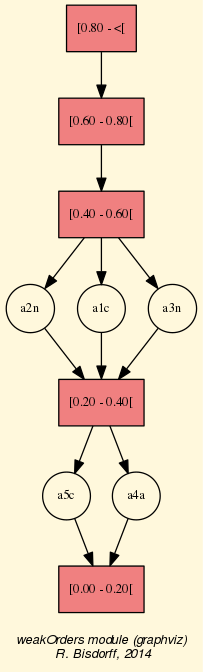
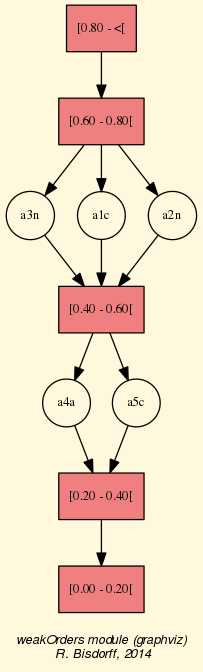
added performaceQuantiles module
git-svn-id: http://leopold-loewenheim.uni.lu/svn/repos/Digraph3@2351 1edaa99d-39e4-4cdb-8da2-0a4aeb6909dc

diff --git a/docSphinx/html/_modules/sortingDigraphs.html b/docSphinx/html/_modules/sortingDigraphs.html
@@ -51,7 +51,7 @@
 <span></span><span class="ch">#!/usr/bin/env python3</span>
 <span class="c1"># -*- coding: utf-8 -*-</span>
 <span class="c1"># Python implementation of digraphs</span>
-<span class="c1"># Current revision $Revision: 2349 $</span>
+<span class="c1"># Current revision $Revision: 2348 $</span>
 <span class="c1"># Copyright (C) 2006-2008  Raymond Bisdorff</span>
 <span class="c1">#</span>
 <span class="c1">#    This program is free software; you can redistribute it and/or modify</span>
@@ -5564,7 +5564,7 @@
 
 <span class="c1"># ------------  class methods ------------------</span>
 
-<div class="viewcode-block" id="NormedQuantilesRatingDigraph.computeRatingRelation"><a class="viewcode-back" href="../techDoc.html#sortingDigraphs.NormedQuantilesRatingDigraph.computeRatingRelation">[docs]</a>    <span class="k">def</span> <span class="nf">computeRatingRelation</span><span class="p">(</span><span class="bp">self</span><span class="p">,</span><span class="n">Debug</span><span class="o">=</span><span class="kc">False</span><span class="p">,</span><span class="n">StoreRating</span><span class="o">=</span><span class="kc">True</span><span class="p">):</span>
+<div class="viewcode-block" id="NormedQuantilesRatingDigraph.computeRatingRelation"><a class="viewcode-back" href="../techDoc.html#sortingDigraphs.NormedQuantilesRatingDigraph.computeRatingRelation">[docs]</a>    <span class="k">def</span> <span class="nf">computeRatingRelation</span><span class="p">(</span><span class="bp">self</span><span class="p">,</span><span class="n">Debug</span><span class="o">=</span><span class="kc">True</span><span class="p">,</span><span class="n">StoreRating</span><span class="o">=</span><span class="kc">True</span><span class="p">):</span>
         <span class="sd">&quot;&quot;&quot;</span>
 <span class="sd">        constructs a bipolar rating relation using a preRanking list of lists.</span>
 <span class="sd">        &quot;&quot;&quot;</span>
@@ -5579,10 +5579,16 @@
 
         <span class="n">profiles</span> <span class="o">=</span> <span class="bp">self</span><span class="o">.</span><span class="n">profiles</span>
         <span class="n">preRanking</span> <span class="o">=</span> <span class="p">[]</span>
-        <span class="k">for</span> <span class="n">c</span> <span class="ow">in</span> <span class="nb">reversed</span><span class="p">(</span><span class="n">profiles</span><span class="p">):</span>
-            <span class="n">preRanking</span><span class="o">.</span><span class="n">append</span><span class="p">([</span><span class="n">c</span><span class="p">])</span>
-            <span class="k">if</span> <span class="n">c</span> <span class="ow">in</span> <span class="n">ratingCategories</span><span class="p">:</span>
-                <span class="n">preRanking</span><span class="o">.</span><span class="n">append</span><span class="p">(</span><span class="n">ratingCategories</span><span class="p">[</span><span class="n">c</span><span class="p">])</span>
+        <span class="k">if</span> <span class="bp">self</span><span class="o">.</span><span class="n">LowerClosed</span><span class="p">:</span>
+            <span class="k">for</span> <span class="n">c</span> <span class="ow">in</span> <span class="n">profiles</span><span class="p">:</span>
+                <span class="n">preRanking</span><span class="o">.</span><span class="n">insert</span><span class="p">(</span><span class="mi">0</span><span class="p">,[</span><span class="n">c</span><span class="p">])</span>
+                <span class="k">if</span> <span class="n">c</span> <span class="ow">in</span> <span class="n">ratingCategories</span><span class="p">:</span>
+                    <span class="n">preRanking</span><span class="o">.</span><span class="n">insert</span><span class="p">(</span><span class="mi">0</span><span class="p">,</span><span class="n">ratingCategories</span><span class="p">[</span><span class="n">c</span><span class="p">])</span>
+        <span class="k">else</span><span class="p">:</span>
+            <span class="k">for</span> <span class="n">c</span> <span class="ow">in</span> <span class="nb">reversed</span><span class="p">(</span><span class="n">profiles</span><span class="p">):</span>
+                <span class="n">preRanking</span><span class="o">.</span><span class="n">append</span><span class="p">([</span><span class="n">c</span><span class="p">])</span>
+                <span class="k">if</span> <span class="n">c</span> <span class="ow">in</span> <span class="n">ratingCategories</span><span class="p">:</span>
+                    <span class="n">preRanking</span><span class="o">.</span><span class="n">append</span><span class="p">(</span><span class="n">ratingCategories</span><span class="p">[</span><span class="n">c</span><span class="p">])</span>
         <span class="k">if</span> <span class="n">Debug</span><span class="p">:</span>
             <span class="nb">print</span><span class="p">(</span><span class="s1">&#39;preRanking&#39;</span><span class="p">,</span><span class="n">preRanking</span><span class="p">)</span>
 
@@ -5617,7 +5623,6 @@
 <span class="sd">        of the corresponding preorder relation.</span>
 
 <span class="sd">        Continuing the prevous Python session:</span>
-<span class="sd">        </span>
 <span class="sd">           &gt;&gt;&gt; ird.showQuantilesRating()</span>
 <span class="sd">           *-------- Quantile sorting result ---------</span>
 <span class="sd">            [0.40 - 0.60[ [&#39;a1&#39;, &#39;a2&#39;, &#39;a3&#39;]</span>
@@ -6437,7 +6442,7 @@
 <span class="s2">    ****************************************************</span>
 <span class="s2">    * Python sortingDigraphs module                    *</span>
 <span class="s2">    * depends on BipolarOutrankingDigraph and          *</span>
-<span class="s2">    * $Revision: 2349 $                                 *</span>
+<span class="s2">    * $Revision: 2348 $                                 *</span>
 <span class="s2">    * Copyright (C) 2010 Raymond Bisdorff              *</span>
 <span class="s2">    * The module comes with ABSOLUTELY NO WARRANTY     *</span>
 <span class="s2">    * to the extent permitted by the applicable law.   *</span>
@@ -6588,7 +6593,7 @@
 
     <span class="nb">print</span><span class="p">(</span><span class="s1">&#39;*************************************&#39;</span><span class="p">)</span>
     <span class="nb">print</span><span class="p">(</span><span class="s1">&#39;* R.B. december 2010                *&#39;</span><span class="p">)</span>
-    <span class="nb">print</span><span class="p">(</span><span class="s1">&#39;* $Revision: 2349 $                  *&#39;</span><span class="p">)</span>
+    <span class="nb">print</span><span class="p">(</span><span class="s1">&#39;* $Revision: 2348 $                  *&#39;</span><span class="p">)</span>
     <span class="nb">print</span><span class="p">(</span><span class="s1">&#39;*************************************&#39;</span><span class="p">)</span>
 
 <span class="c1">#############################</span>

diff --git a/docSphinx/html/techDoc.html b/docSphinx/html/techDoc.html
@@ -6346,7 +6346,7 @@ normed performance quantiles gathered from historical data.</p>
 
 <dl class="method">
 <dt id="sortingDigraphs.NormedQuantilesRatingDigraph.computeRatingRelation">
-<code class="descname">computeRatingRelation</code><span class="sig-paren">(</span><em>Debug=False</em>, <em>StoreRating=True</em><span class="sig-paren">)</span><a class="reference internal" href="_modules/sortingDigraphs.html#NormedQuantilesRatingDigraph.computeRatingRelation"><span class="viewcode-link">[source]</span></a><a class="headerlink" href="#sortingDigraphs.NormedQuantilesRatingDigraph.computeRatingRelation" title="Permalink to this definition">¶</a></dt>
+<code class="descname">computeRatingRelation</code><span class="sig-paren">(</span><em>Debug=True</em>, <em>StoreRating=True</em><span class="sig-paren">)</span><a class="reference internal" href="_modules/sortingDigraphs.html#NormedQuantilesRatingDigraph.computeRatingRelation"><span class="viewcode-link">[source]</span></a><a class="headerlink" href="#sortingDigraphs.NormedQuantilesRatingDigraph.computeRatingRelation" title="Permalink to this definition">¶</a></dt>
 <dd><p>constructs a bipolar rating relation using a preRanking list of lists.</p>
 </dd></dl>
 
@@ -6356,8 +6356,9 @@ normed performance quantiles gathered from historical data.</p>
 <dd><p>The rating drawing is using the weakOrders.WeakOrder exportGraphViz() method for
 drawing oriented Hasse diagrams of weak orderings, ie the negation
 of the corresponding preorder relation.</p>
-<p>Continuing the prevous Python session:</p>
-<div class="highlight-default"><div class="highlight"><pre><span></span><span class="gp">&gt;&gt;&gt; </span><span class="n">ird</span><span class="o">.</span><span class="n">showQuantilesRating</span><span class="p">()</span>
+<dl class="docutils">
+<dt>Continuing the prevous Python session:</dt>
+<dd><div class="first last highlight-default"><div class="highlight"><pre><span></span><span class="gp">&gt;&gt;&gt; </span><span class="n">ird</span><span class="o">.</span><span class="n">showQuantilesRating</span><span class="p">()</span>
 <span class="go">*-------- Quantile sorting result ---------</span>
 <span class="go"> [0.40 - 0.60[ [&#39;a1&#39;, &#39;a2&#39;, &#39;a3&#39;]</span>
 <span class="go"> [0.20 - 0.40[ [&#39;a4&#39;, &#39;a5&#39;]</span>
@@ -6367,6 +6368,8 @@ of the corresponding preorder relation.</p>
 <span class="go"> dot -Grankdir=TB -Tpng quantilesRatingDigraph.dot -o quantilesRatingDigraph.png</span>
 </pre></div>
 </div>
+</dd>
+</dl>
 <a class="reference internal image-reference" href="_images/quantilesRatingDigraph.png"><img alt="usage example of Normed Quantiles Rating Digraph" class="align-center" src="_images/quantilesRatingDigraph.png" style="width: 200px;" /></a>
 <div class="admonition warning">
 <p class="first admonition-title">Warning</p>

diff --git a/sortingDigraphs.py b/sortingDigraphs.py
@@ -5514,7 +5514,7 @@ class NormedQuantilesRatingDigraph(SortingDigraph,PerformanceQuantiles):
 
 # ------------  class methods ------------------
 
-    def computeRatingRelation(self,Debug=False,StoreRating=True):
+    def computeRatingRelation(self,Debug=True,StoreRating=True):
         """
         constructs a bipolar rating relation using a preRanking list of lists.
         """
@@ -5529,10 +5529,16 @@ class NormedQuantilesRatingDigraph(SortingDigraph,PerformanceQuantiles):
 
         profiles = self.profiles
         preRanking = []
-        for c in reversed(profiles):
-            preRanking.append([c])
-            if c in ratingCategories:
-                preRanking.append(ratingCategories[c])
+        if self.LowerClosed:
+            for c in profiles:
+                preRanking.insert(0,[c])
+                if c in ratingCategories:
+                    preRanking.insert(0,ratingCategories[c])
+        else:
+            for c in reversed(profiles):
+                preRanking.append([c])
+                if c in ratingCategories:
+                    preRanking.append(ratingCategories[c])
         if Debug:
             print('preRanking',preRanking)
 
@@ -5567,7 +5573,6 @@ class NormedQuantilesRatingDigraph(SortingDigraph,PerformanceQuantiles):
         of the corresponding preorder relation.
 
         Continuing the prevous Python session:
-        
            >>> ird.showQuantilesRating()
            *-------- Quantile sorting result ---------
             [0.40 - 0.60[ ['a1', 'a2', 'a3']
